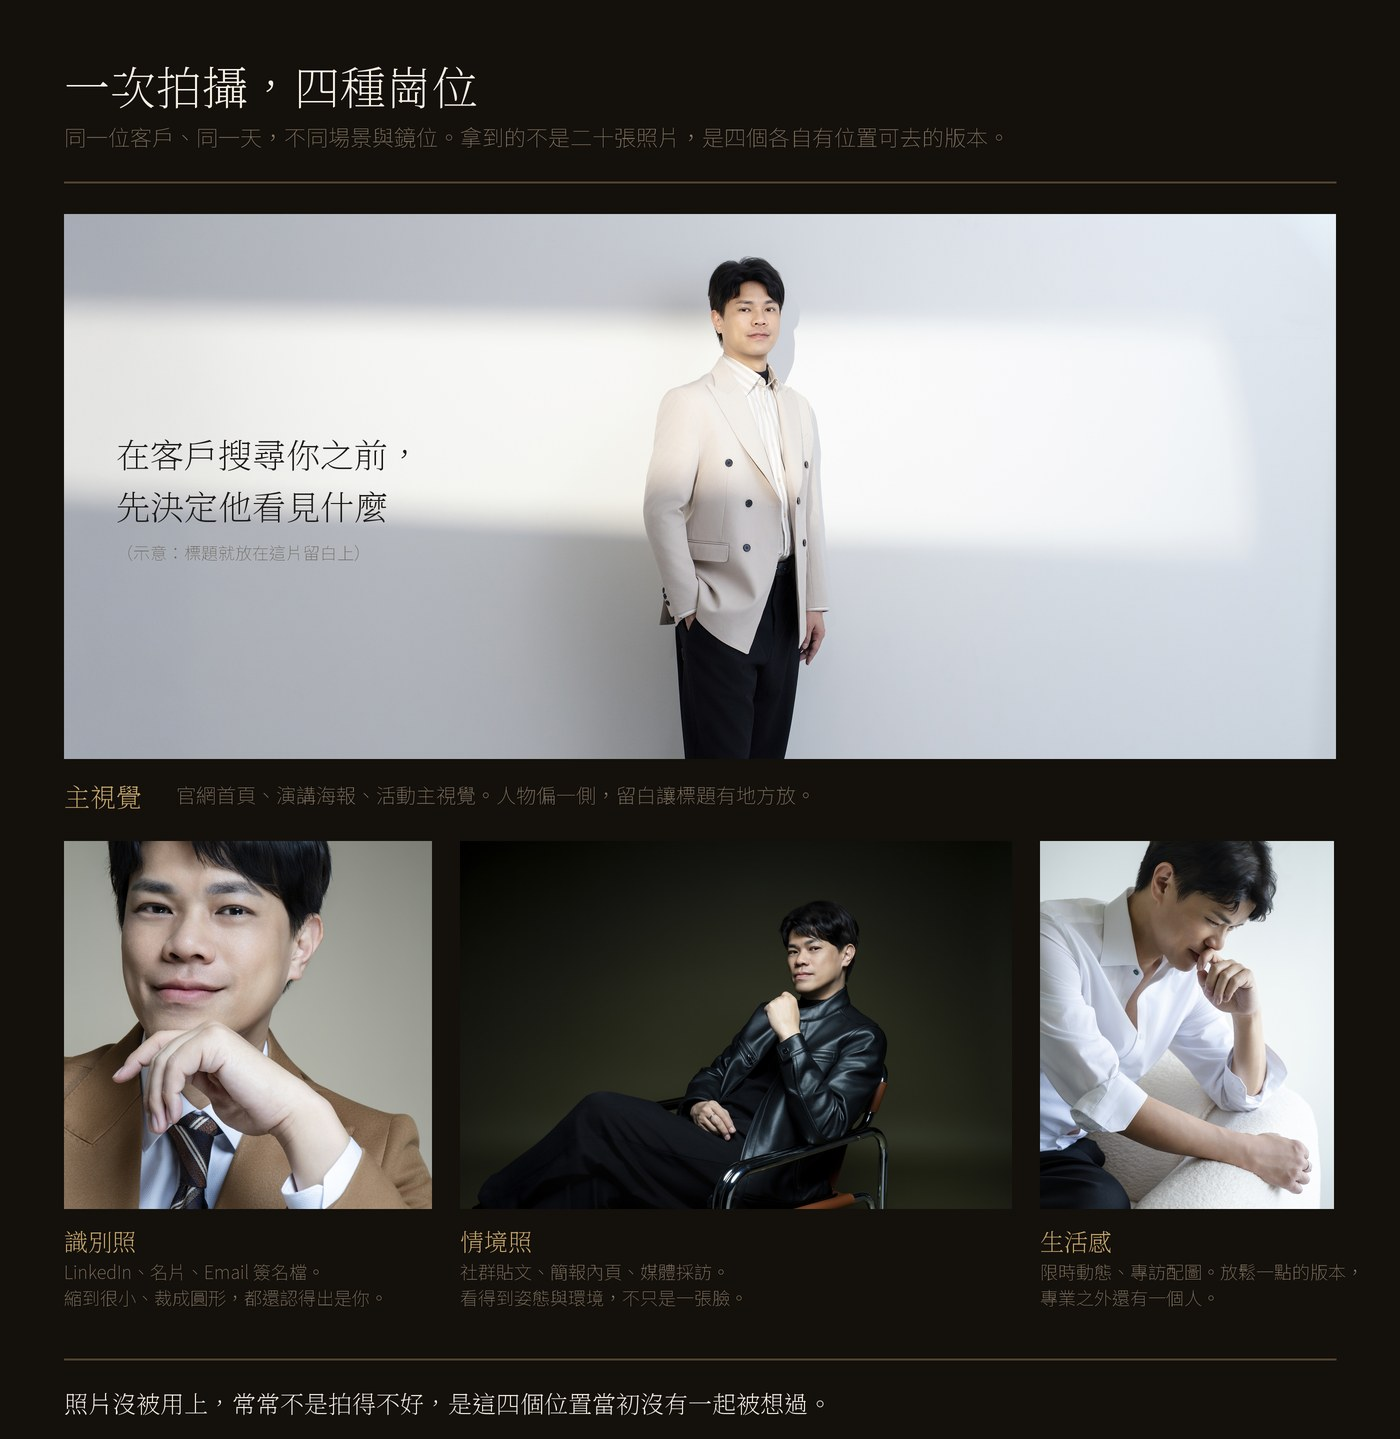
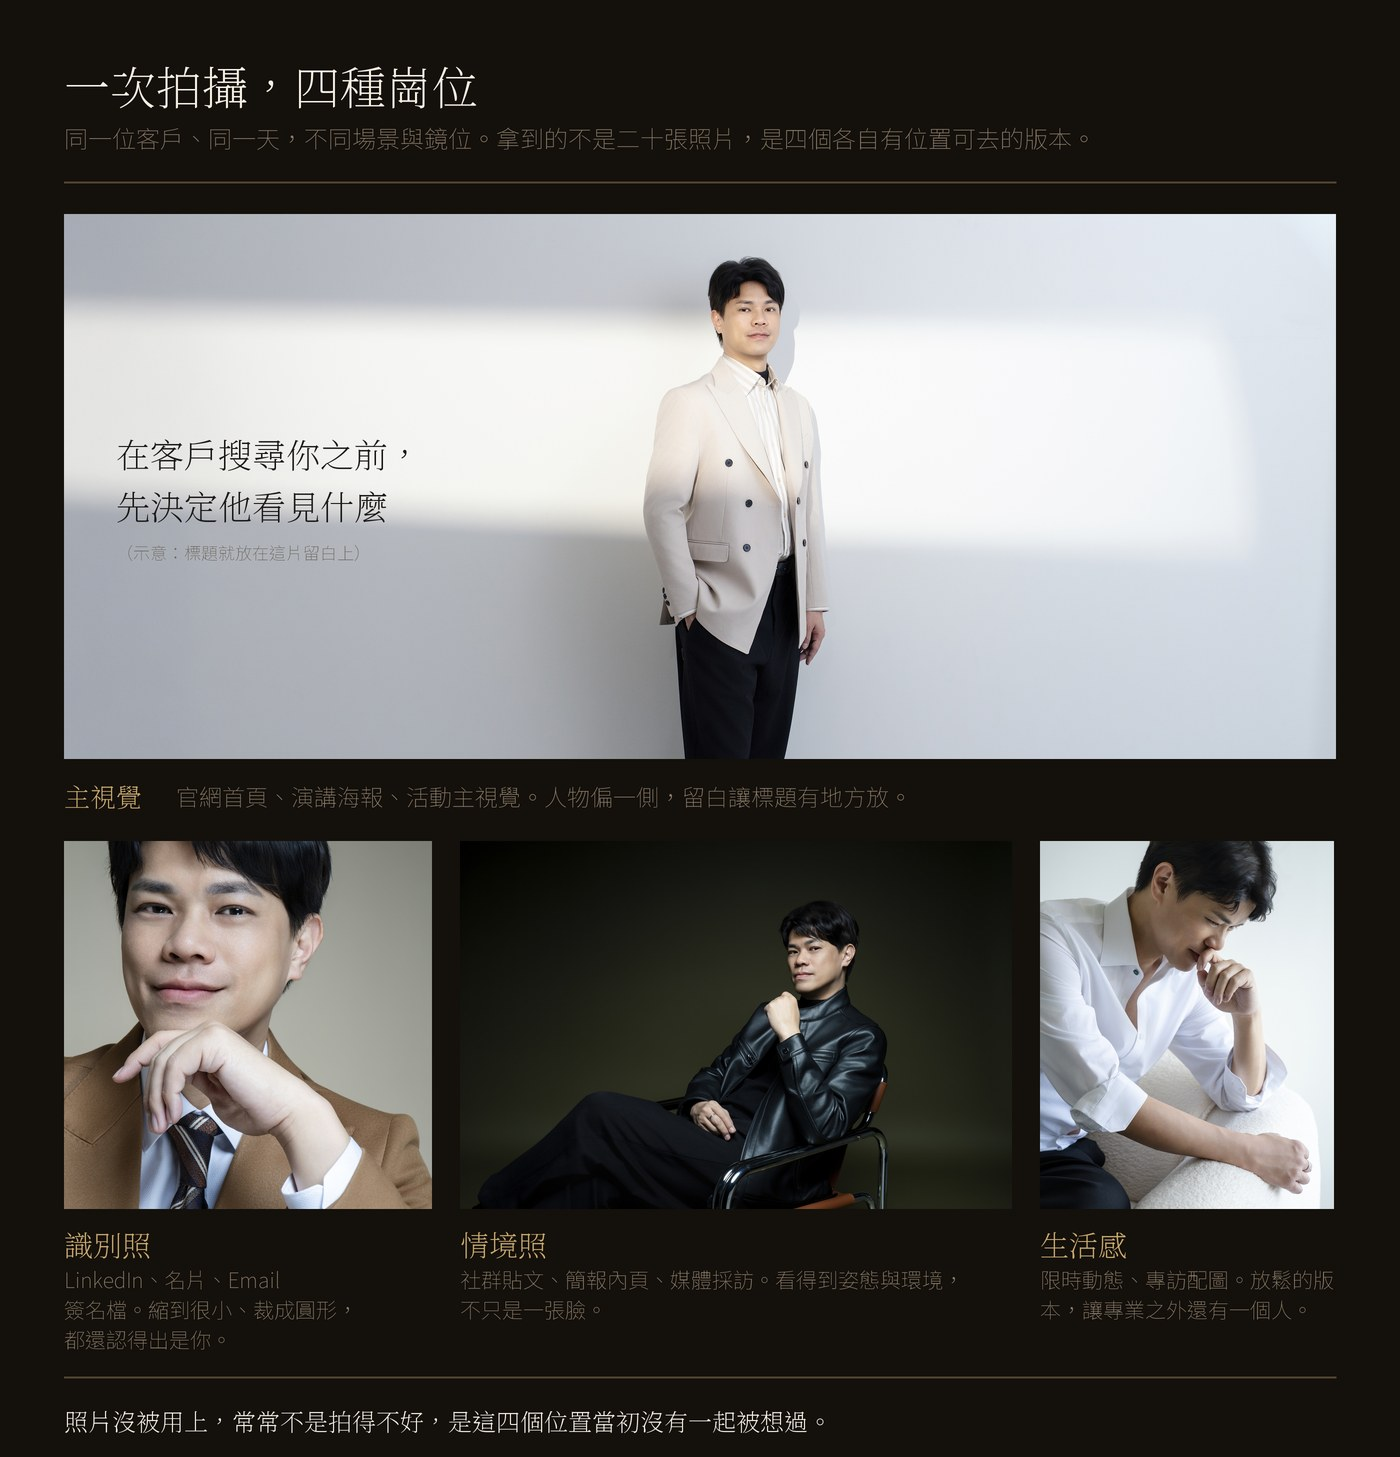
fix(journal): 示意圖字級放大並修掉右緣溢出
手機上這張圖會被縮到 680px 顯示，原本 18px 的說明文字換算後太小
（字太小是過去被打回過的問題）。說明 18→21、崗位名 24→29、副標 22→24；
換行改成依格寬硬斷並清掉行首空白，生活感那格改寫讓斷點落在標點。

diff --git a/tools/diagram-src/after-the-shoot-roles.py b/tools/diagram-src/after-the-shoot-roles.py
@@ -26,7 +26,7 @@ d = ImageDraw.Draw(c)
 
 d.text((M, 52 * S), "一次拍攝，四種崗位", font=SER(46), fill=TXT)
 d.text((M, 124 * S), "同一位客戶、同一天，不同場景與鏡位。拿到的不是二十張照片，是四個各自有位置可去的版本。",
-       font=SAN(22), fill=MUTE)
+       font=SAN(24), fill=MUTE)
 d.line((M, 182 * S, W - M, 182 * S), fill=(80, 68, 50), width=2 * S)
 
 # 主視覺：橫幅＋標題留白示意
@@ -40,7 +40,7 @@ d.text((tx, ty + 56 * S), "（示意：標題就放在這片留白上）", font=
 ly = 214 * S + hh + 18 * S
 d.text((M, ly), "主視覺", font=SER(26), fill=GOLD)
 d.text((M + 112 * S, ly + 6 * S), "官網首頁、演講海報、活動主視覺。人物偏一側，留白讓標題有地方放。",
-       font=SAN(20), fill=MUTE)
+       font=SAN(23), fill=MUTE)
 
 # 三個支援崗位
 y0 = ly + 64 * S
@@ -48,24 +48,25 @@ th = int((AV - 2 * 28 * S) / 3.3)
 tiles = [
     ("DSC03867 2.jpg", 1.0, (0.5, 0.10), "識別照", "LinkedIn、名片、Email 簽名檔。縮到很小、裁成圓形，都還認得出是你。"),
     ("DSC04003 2.jpg", 1.5, (0.5, 0.50), "情境照", "社群貼文、簡報內頁、媒體採訪。看得到姿態與環境，不只是一張臉。"),
-    ("DSC03791 2.jpg", 0.8, (0.5, 0.40), "生活感", "限時動態、專訪配圖。放鬆一點的版本，專業之外還有一個人。"),
+    ("DSC03791 2.jpg", 0.8, (0.5, 0.40), "生活感", "限時動態、專訪配圖。放鬆的版本，讓專業之外還有一個人。"),
 ]
 x = M
 for f, r, cen, name, use in tiles:
     tw = int(th * r)
     c.paste(ImageOps.fit(img(f), (tw, th), Image.LANCZOS, centering=cen), (x, y0))
-    d.text((x, y0 + th + 14 * S), name, font=SER(24), fill=GOLD)
-    line, yy = "", y0 + th + 52 * S
-    for ch in use:                       # 中文逐字排版，只在標點斷行
+    d.text((x, y0 + th + 14 * S), name, font=SER(29), fill=GOLD)
+    line, yy = "", y0 + th + 58 * S
+    maxch = max(8, int(tw / (21 * S)))   # 一行最多幾個字，依這格寬度算，避免溢出右緣
+    for ch in use:                       # 中文逐字排版：標點優先斷行，超寬則硬斷
         line += ch
-        if len(line) >= 15 and ch in "。、，":
-            d.text((x, yy), line, font=SAN(18), fill=MUTE)
-            line, yy = "", yy + 26 * S
+        if (len(line) >= maxch - 3 and ch in "。、，") or len(line) >= maxch:
+            d.text((x, yy), line.strip(), font=SAN(21), fill=MUTE)
+            line, yy = "", yy + 30 * S
     if line:
-        d.text((x, yy), line, font=SAN(18), fill=MUTE)
+        d.text((x, yy), line.strip(), font=SAN(21), fill=MUTE)
     x += tw + 28 * S
 
-fy = y0 + th + 150 * S
+fy = y0 + th + 168 * S
 d.line((M, fy, W - M, fy), fill=(80, 68, 50), width=2 * S)
 d.text((M, fy + 26 * S), "照片沒被用上，常常不是拍得不好，是這四個位置當初沒有一起被想過。", font=SER(24), fill=TXT)
 
